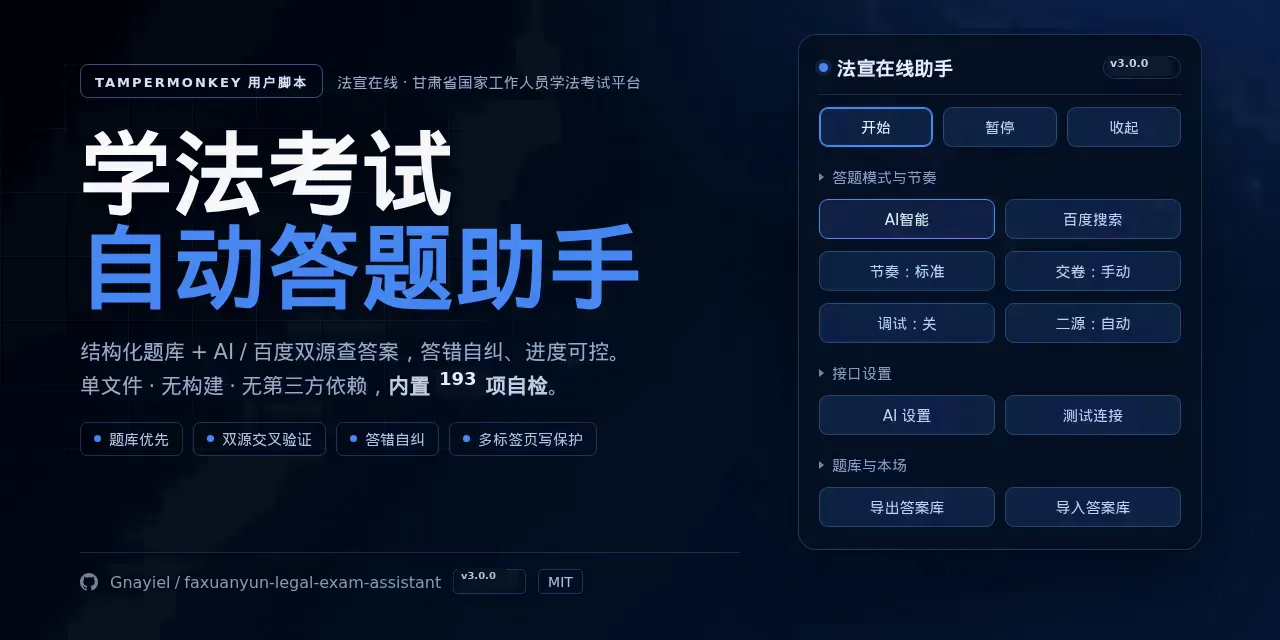
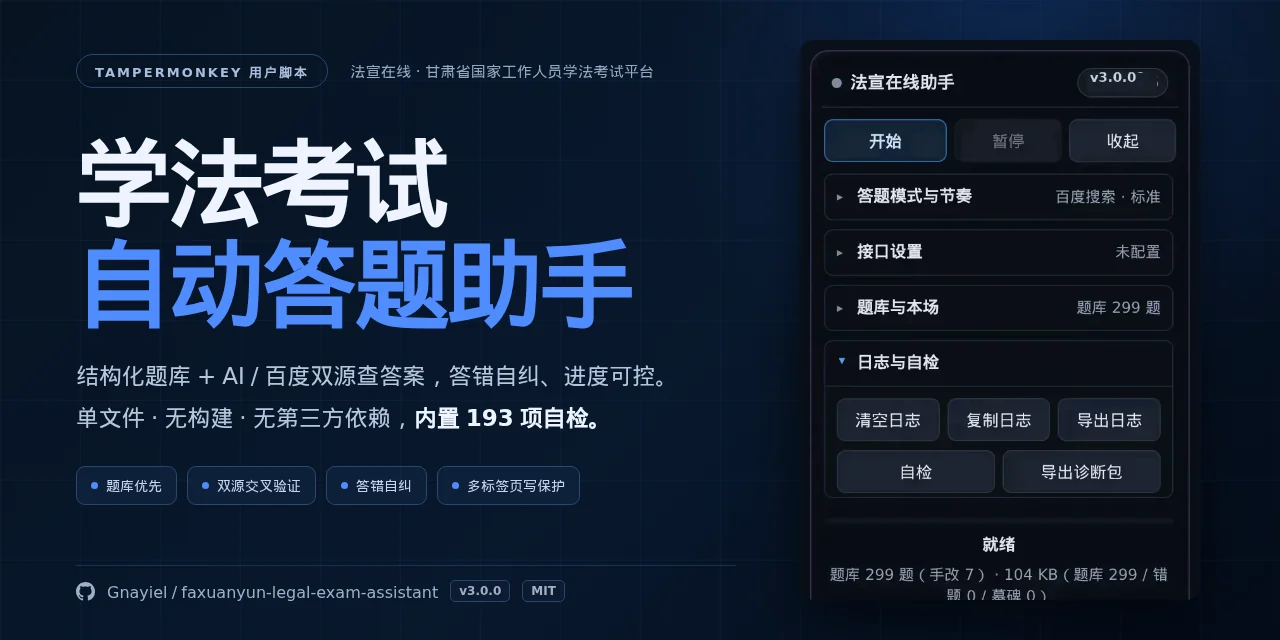
docs: 重置社交预览并补充图片与缓存说明

diff --git a/docs/REPOSITORY_SETTINGS.md b/docs/REPOSITORY_SETTINGS.md
@@ -12,8 +12,8 @@
 | --- | --- | --- |
 | Description | 当前为中英双语长描述（含 “Gansu legal-study exam platform” 与 “甘肃法宣在线学法考试油猴脚本”）；`package.json` 用中文短描述 | 已配置；两者不要求逐字一致，保持中英双语便于搜索 |
 | Website | 当前为 `https://github.com/Gnayiel/faxuanyun-legal-exam-assistant/releases/latest`；可选再补 Greasy Fork 发布页 | 已配置；没有官方站点时不必编造 |
-| Topics | 当前 8 个：`automation`、`education`、`faxuanyun`、`gansu`、`llm`、`openai`、`tampermonkey`、`userscript`；可补 `legal-exam`、`javascript`、`greasemonkey`、`ai`、`baidu` | 已配置 8 个；建议不超过 12 个，别堆无关热门标签 |
-| Social preview | 上传 `docs/social-preview-light.webp`（深色界面用户可换 dark 版） | 仓库已自带浅/深两张预览图；上传后请在分享卡片里预览确认 |
+| Topics | 当前 8 个：`automation`、`education`、`faxuanyun`、`gansu`、`llm`、`openai`、`tampermonkey`、`userscript`；建议补 `legal-exam`、`javascript`、`greasemonkey`、`ai`、`baidu`（`chinese` 可选） | 已配置 8 个；GitHub 上限 20，按需取舍，别堆无关热门标签 |
+| Social preview | 当前 GitHub 仓库已配置社交预览（OG image 可访问）；如需更换，上传 `docs/social-preview-light.webp`（深色界面用户可换 dark 版） | 仓库已自带浅/深两张预览图；更换后请在分享卡片里预览确认 |
 | Default branch | `main` | 所有 workflow 与文档都按 `main` 写 |
 | Features → Issues | 已开启 | 需要 `bug_report.yml` 模板与 issue 检索 |
 | Features → Discussions | 已开启（Q&A / 使用交流） | 功能建议走 Feature request 模板，使用问题/开放讨论走 Discussions；[SUPPORT.md](../SUPPORT.md) 与 issue 模板的 config 已分流；开启后建议建 `Q&A`、`Announcements` 分类 |

diff --git a/docs/IMAGE_PIPELINE.md b/docs/IMAGE_PIPELINE.md
@@ -6,7 +6,7 @@ README 使用的三张图：
 - `docs/social-preview-dark.webp`
 - `docs/panel.webp`
 
-都是仓库内的脱敏海报/截图，不包含真实账号信息。发版时版本号和自检数会变化，用脚本重新盖字，避免手工维护漂移：
+都是仓库内的脱敏海报/截图，不包含真实账号信息。发版时版本号和自检数会变化，用脚本重新生成，避免手工维护漂移。`panel.webp` 由 ffmpeg 更新版本徽章/日志数字；两张社交预览由 Chrome 渲染独立 HTML（右侧嵌入 `panel.webp`），不再在旧图上反复盖字：
 
 ```bash
 # 默认读取 package.json 的 version、README 里的 self--test-N 徽章
@@ -16,11 +16,11 @@ npm run docs:images
 node tools/generate-docs-images.mjs --version 3.0.0 --count 193
 ```
 
-依赖：`ffmpeg`、DejaVu Sans Bold、Droid Sans Fallback（可用 `FX_FONT` / `FX_CJK_FONT` / `FFMPEG` 覆盖路径）。脚本只在本地手动运行，不进入 CI。
+依赖：`ffmpeg`、Chrome/Chromium（可用 `CHROME` 指定）、DejaVu Sans Bold、Droid Sans Fallback（可用 `FX_FONT` / `FX_CJK_FONT` / `FFMPEG` 覆盖路径）。社交预览按 1280×640、`--force-device-scale-factor=1` 截图；若本机没有 Chrome，脚本会直接报错，不会写出半成品。脚本只在本地手动运行，不进入 CI。
 
 ## 发版检查清单
 
 1. 改版本号后执行 `npm run docs:images`，用图片查看器确认三张图的版本号/自检数正确；
 2. `npm run ci`（含页面冒烟 135 项）全绿；
 3. `node tools/release.mjs --check-ci vX.Y.Z` 通过后再打 tag；
-4. 若调整了海报/面板布局，先更新 `tools/generate-docs-images.mjs` 里对应的坐标与底色，再生成。
+4. 若调整海报布局，改 `tools/generate-docs-images.mjs` 里的 `socialHtml()`；若调整面板截图，改 `panelFilters()` 的坐标与底色，再生成。

diff --git a/docs/RELEASING.md b/docs/RELEASING.md
@@ -121,6 +121,8 @@ Host github.com
 
 因此发布顺序必须是：先推 main（raw 跟上）→ 再推 tag（workflow 建 Release）→ latest 指向新 tag。`@3` 镜像没刷新只会 `::warning::`，不会卡住发版；急着验证时用 `@vx.y.z` 固定链接；未开启 immutable releases 时可稍后重跑 workflow 再刷一次，开启后只能等缓存自然过期。
 
+> 别名元数据与脚本文件是两层缓存：曾出现 `@2/package.json` 已是 2.0.22、`@2/...user.js` 仍返回 2.0.16 的情况。`purge.jsdelivr.net` 不保证一次清掉所有边缘；判断版本以 `@vx.y.z` 的脚本文件为准，或等 `s-maxage`（约 12 小时）自然过期。
+
 ## 失败恢复
 
 | 场景 | 处理 |

diff --git a/CHANGELOG.md b/CHANGELOG.md
@@ -15,6 +15,14 @@
 
 ---
 
+## 未发布
+
+### 变更
+
+- **README 社交预览重新生成**：两张 1280×640 海报改为 HTML/CSS 排版、Chrome 截图，右侧直接嵌入当前面板截图；不再在旧 WebP 上重复覆盖版本号。修复旧图在 `2.0.22 → 3.0.0` 变短时留下的残影，以及 `193` 与原海报字体不一致的问题。
+- **图片管线说明**：`npm run docs:images` 现在需要 Chrome/Chromium（可用 `CHROME` 指定）；`docs/IMAGE_PIPELINE.md` 已同步依赖与布局入口。
+- **文档校准**：补充 `@2` 别名的元数据/文件双层缓存诊断，以及社交预览当前已在 GitHub 配置的说明。
+
 ## v3.0.0
 
 **2026-10-21**
